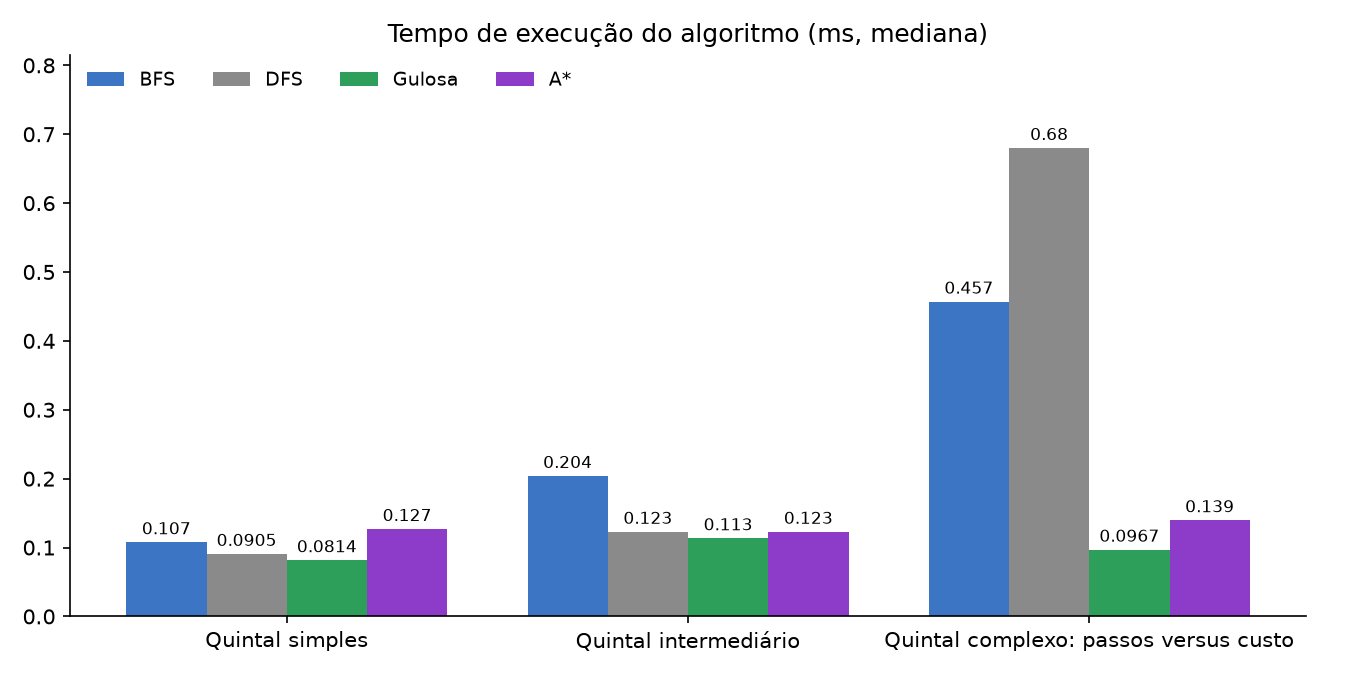
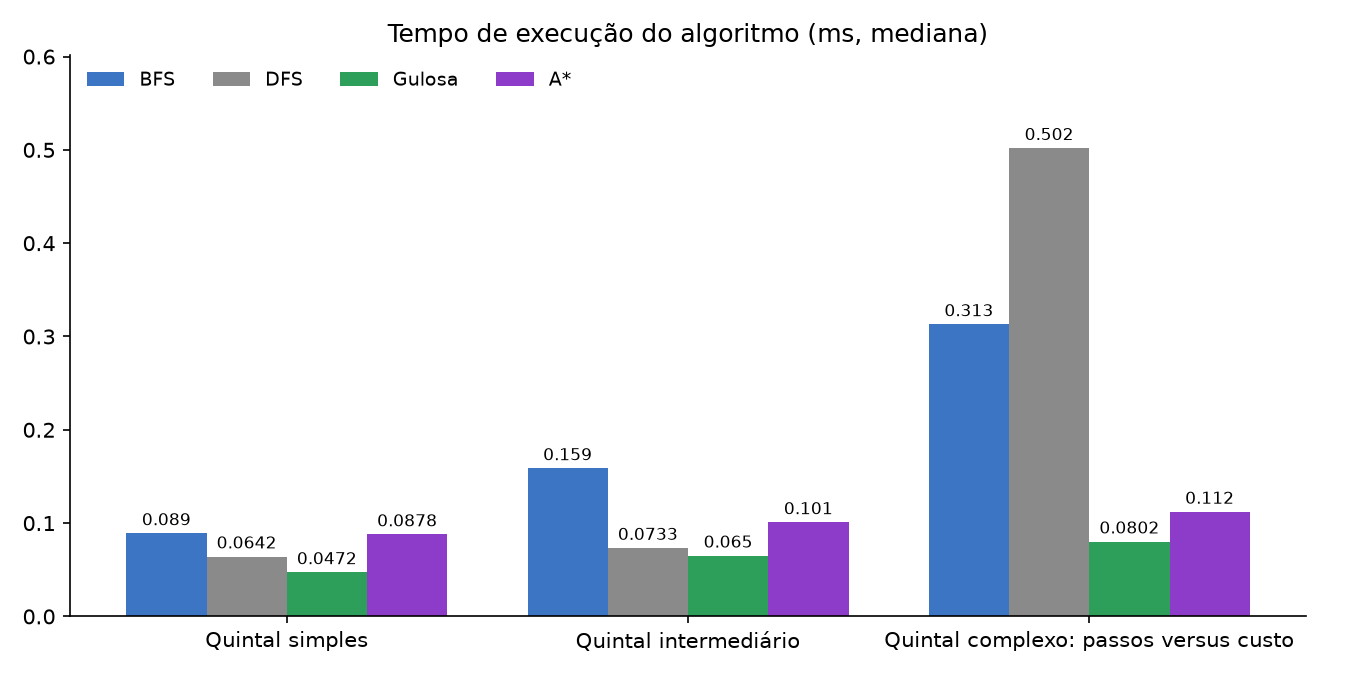
results: rodada final na máquina local

diff --git a/results/tabela_experimentos.md b/results/tabela_experimentos.md
@@ -1,17 +1,17 @@
 | Cenário | Método | Passos | Custo | Tempo | Expandidos | Gerados | Fronteira máx. |
 |---|---|---:|---:|---:|---:|---:|---:|
 | Quintal simples | Usuário | 9 | 10 | 4.7 s | — | — | — |
-| Quintal simples | BFS | 9 | 10 | 0.107 ms | 20 | 23 | 3 |
-| Quintal simples | DFS | 11 | 15 | 0.091 ms | 15 | 17 | 4 |
-| Quintal simples | Gulosa | 9 | 10 | 0.081 ms | 10 | 13 | 4 |
-| Quintal simples | A* | 9 | 10 | 0.127 ms | 16 | 17 | 3 |
+| Quintal simples | BFS | 9 | 10 | 0.089 ms | 20 | 23 | 3 |
+| Quintal simples | DFS | 11 | 15 | 0.064 ms | 15 | 17 | 4 |
+| Quintal simples | Gulosa | 9 | 10 | 0.047 ms | 10 | 13 | 4 |
+| Quintal simples | A* | 9 | 10 | 0.088 ms | 16 | 17 | 3 |
 | Quintal intermediário | Usuário | 14 | 14 | 2.3 s | — | — | — |
-| Quintal intermediário | BFS | 14 | 14 | 0.204 ms | 39 | 41 | 5 |
-| Quintal intermediário | DFS | 16 | 19 | 0.123 ms | 18 | 22 | 5 |
-| Quintal intermediário | Gulosa | 14 | 14 | 0.113 ms | 15 | 20 | 6 |
-| Quintal intermediário | A* | 14 | 14 | 0.123 ms | 20 | 26 | 7 |
+| Quintal intermediário | BFS | 14 | 14 | 0.159 ms | 39 | 41 | 5 |
+| Quintal intermediário | DFS | 16 | 19 | 0.073 ms | 18 | 22 | 5 |
+| Quintal intermediário | Gulosa | 14 | 14 | 0.065 ms | 15 | 20 | 6 |
+| Quintal intermediário | A* | 14 | 14 | 0.101 ms | 20 | 26 | 7 |
 | Quintal complexo: passos versus custo | Usuário | 21 | 21 | 2.6 s | — | — | — |
-| Quintal complexo: passos versus custo | BFS | 17 | 65 | 0.457 ms | 77 | 84 | 7 |
-| Quintal complexo: passos versus custo | DFS | 41 | 41 | 0.680 ms | 122 | 128 | 8 |
-| Quintal complexo: passos versus custo | Gulosa | 17 | 65 | 0.097 ms | 18 | 19 | 2 |
-| Quintal complexo: passos versus custo | A* | 21 | 21 | 0.139 ms | 23 | 26 | 4 |
+| Quintal complexo: passos versus custo | BFS | 17 | 65 | 0.313 ms | 77 | 84 | 7 |
+| Quintal complexo: passos versus custo | DFS | 41 | 41 | 0.502 ms | 122 | 128 | 8 |
+| Quintal complexo: passos versus custo | Gulosa | 17 | 65 | 0.080 ms | 18 | 19 | 2 |
+| Quintal complexo: passos versus custo | A* | 21 | 21 | 0.112 ms | 23 | 26 | 4 |
